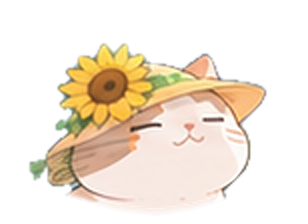
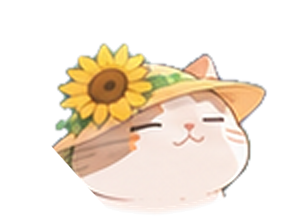
걷는 고양이 목 부분 정리 (v9)
Claude-Session: https://claude.ai/code/session_01JB9z3F3MefLcCjAFZThcPF

Changed region(s): [[0.0877, 0.6562, 0.3214, 0.9062]]

diff --git a/index.html b/index.html
@@ -229,6 +229,7 @@ function makePlan(mode){
   const go=(tx,ty,d)=>{const dist=Math.hypot(tx-x,(ty-y)*1.6);push({k:'walk',x0:x,y0:y,x1:tx,y1:ty,dir:d,dur:dist/SPEED});x=tx;y=ty};
   const sit=(d,dur)=>{const sx=d>0?x+19:x-41;push({k:'down',x,y,dir:d,sitX:sx,dur:.62});push({k:'rest',x,y,dir:d,sitX:sx,dur});return sx};
   const stand=(sx,d)=>{x=d>0?sx-19:sx+41;push({k:'up',x,y,dir:d,sitX:sx,dur:.62})};
+  if(mode==='short'){walk(468,1);const s0=sit(1,2.6);stand(s0,-1);walk(HOME[0]+41,-1);push({k:'down',x,y:HOME[1],dir:-1,sitX:HOME[0],dur:.62});return{segs,dur:t}}
   if(mode==='small'){
     // narrow (phone) screens: hop down the rock steps to the front of the plaza, rest, and climb back
     walk(468,1);hop(588,716,1);walk(630,1);hop(668,852,1);
@@ -327,7 +328,7 @@ function drawBody(c,col){
   c.fillStyle=col.patch;c.beginPath();c.ellipse(-42,-48,21,16,-.35,0,7);c.fill();
   c.beginPath();c.ellipse(-6,-69,17,7,.05,0,7);c.fill();
   const g=c.createLinearGradient(0,-44,0,-11);g.addColorStop(0,'rgba(150,118,150,0)');g.addColorStop(1,'rgba(150,118,150,.26)');c.fillStyle=g;c.fillRect(-70,-44,140,34);
-  c.fillStyle='rgba(255,255,255,.42)';c.beginPath();c.ellipse(6,-63,30,4.2,-.03,0,7);c.fill();
+  c.fillStyle='rgba(255,255,255,.42)';c.beginPath();c.ellipse(-16,-64,22,3.6,-.03,0,7);c.fill();
   c.restore();
   c.strokeStyle=col.line;c.lineWidth=1.4;c.lineJoin='round';c.stroke(BODY);
 }
@@ -382,6 +383,9 @@ function drawStanding(k,ps,t){
   const tilt=(ps.walk?Math.sin(ps.phase*2*Math.PI)*.025:0)+pitch*.35*d;
   const im=spr[k].h;
   c.save();c.translate(hx,hy);c.rotate(tilt);
+  // head base under the cut-out: fur fill with the lower-left jaw outline, so the neck joins cleanly
+  c.fillStyle=col.fur;c.beginPath();c.ellipse(1,-29.5,50.5,30.8,0,0,7);c.fill();
+  c.strokeStyle=col.line;c.lineWidth=1.4;c.beginPath();c.ellipse(1,-29.5,50.5,30.8,0,Math.PI*.42,Math.PI*1.08);c.stroke();
   if(im.naturalWidth)c.drawImage(im,HB[0]-HA[0],HB[1]-HA[1],HB[2]-HB[0],HB[3]-HB[1]);
   if(k===3)drawScarf(c);
   c.restore();
@@ -626,7 +630,7 @@ document.addEventListener('pointerup',e=>{
   if(hitCat(e.clientX,e.clientY)){catTap();return}
   const ht=hitTree(e.clientX,e.clientY);if(ht){shakeTree(...ht);return}
   const now=performance.now();
-  if(now-lastTap<320){lastTap=0;auto=true;setSeason(monthSeason());toast('자동 · '+SNAME[cur]+' · v8');save()}else lastTap=now;
+  if(now-lastTap<320){lastTap=0;auto=true;setSeason(monthSeason());toast('자동 · '+SNAME[cur]+' · v9');save()}else lastTap=now;
 });
 document.addEventListener('gesturestart',e=>e.preventDefault());
 document.addEventListener('dblclick',e=>e.preventDefault());
